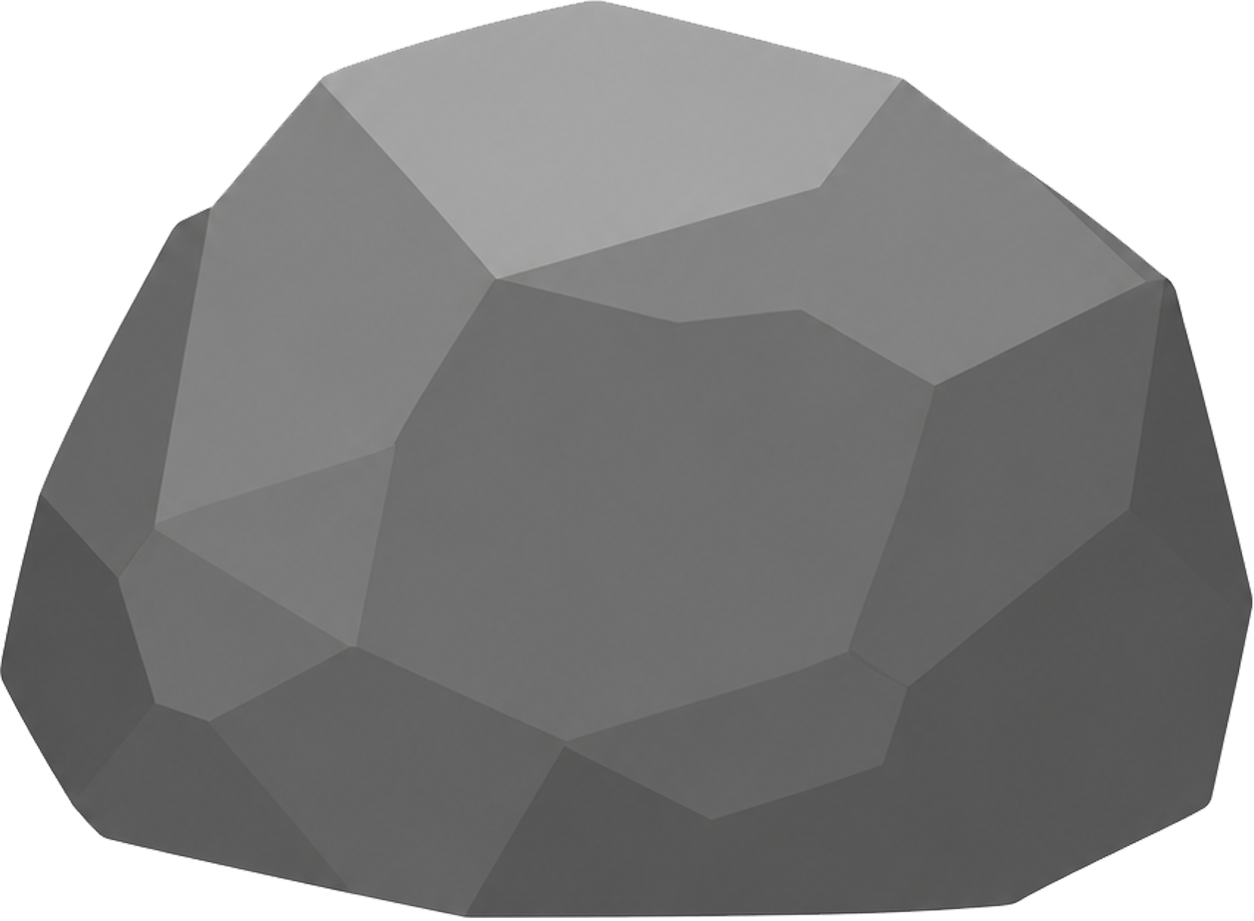
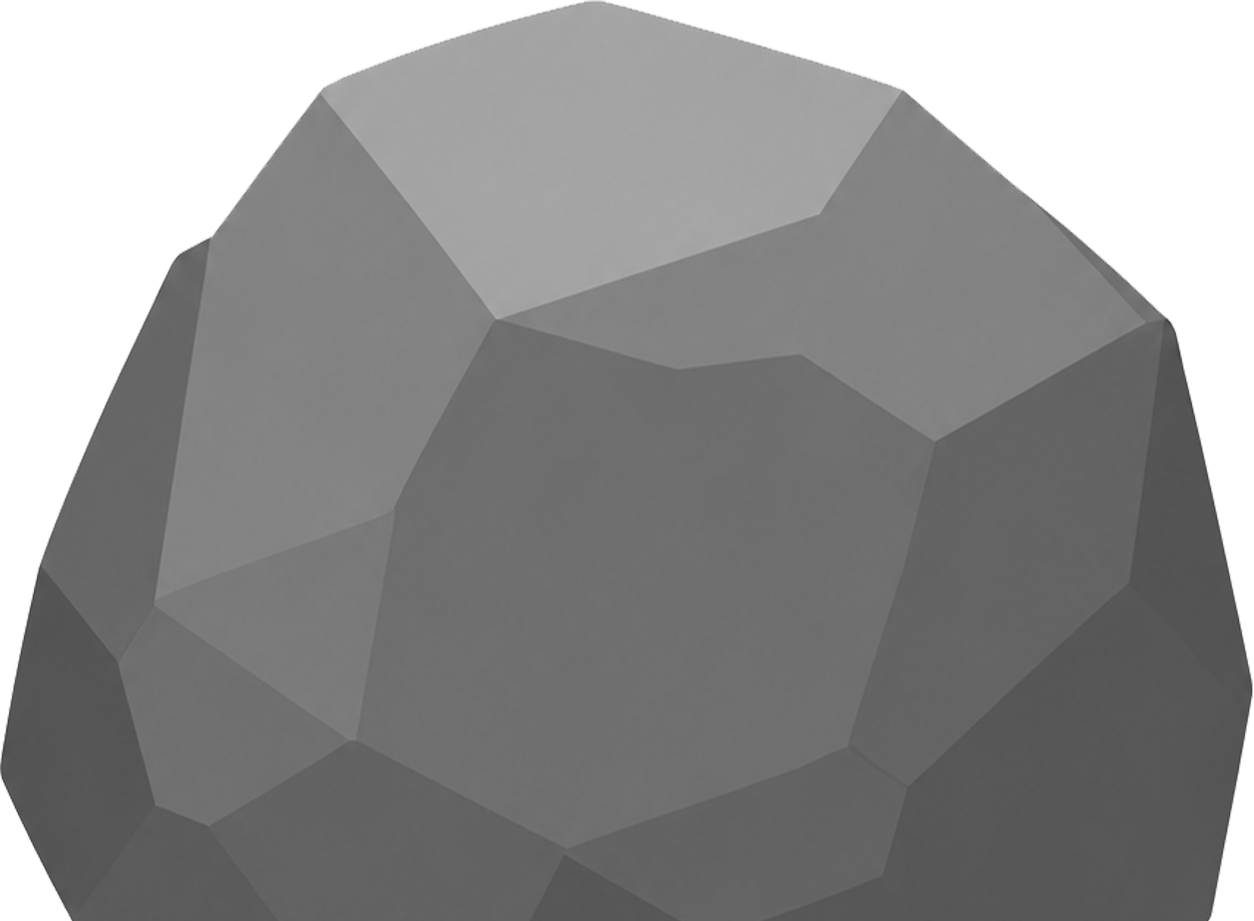
Boulder update

diff --git a/src/style/obstacles.css b/src/style/obstacles.css
@@ -30,6 +30,6 @@
 .obstacle--rock {
   width: 90px;
   height: 70px;
-  /*background-color: gray;*/
+  background-color: gray;
   content: url(../images/boulder.png);
 }